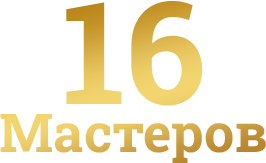
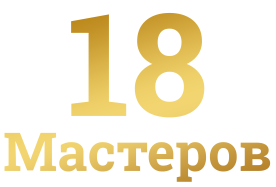
18 speakers changes

Changed region(s): [[0.0, 0.6748, 1.0, 1.0], [0.4812, 0.0, 0.782, 0.6748], [0.2406, 0.0, 0.4812, 0.6442]]

diff --git a/src/app/components/second-forum/second-forum.component.html b/src/app/components/second-forum/second-forum.component.html
@@ -65,10 +65,12 @@
                                 <img src="assets/Images/tel.png" alt="telegram">
                                 Присоединиться к чату форума</button> -->
               <div class="header-inner header-inner-button boreder grad">
-                <button class="registration-button" (click)="scrollTo('registration-form-container')">{{'second-forum.register' |
+                <button class="registration-button"
+                  (click)="scrollTo('registration-form-container')">{{'second-forum.register' |
                   translate}}</button>
               </div>
-              <p style="margin-top: 12px;" (click)="goToURl('https://t.me/FORUM_AHIMSA')">{{'second-forum.register-from-tg' | translate}}</p>
+              <p style="margin-top: 12px;" (click)="goToURl('https://t.me/FORUM_AHIMSA')">
+                {{'second-forum.register-from-tg' | translate}}</p>
               <!-- </div>
               <button class="registration-button registration-button-gold">
               </button> -->
@@ -263,64 +265,60 @@
             </app-master-card>
 
             <app-master-card [imgUrl]="'second-forum/Sadhvi.jpg'" [title]="'masters.sadhvi-title' | translate"
-            [name]="'masters.sadhvi' | translate" [tradition]="''" [time]="''"></app-master-card>
+              [name]="'masters.sadhvi' | translate" [tradition]="''" [time]="''"></app-master-card>
 
             <app-master-card [imgUrl]="'second-forum/madukhar.jpg'" [title]="'masters.madukar-title' | translate"
               [name]="'masters.madukar' | translate" [tradition]="''" [time]="''"></app-master-card>
 
-            <app-master-card [imgUrl]="'second-forum/hakimov.jpg'"
-              [title]="'masters.shaitania-title' | translate"
+            <app-master-card [imgUrl]="'second-forum/hakimov.jpg'" [title]="'masters.shaitania-title' | translate"
               [name]="'masters.shaitania' | translate" [tradition]="''" [time]="''">
             </app-master-card>
 
             <app-master-card [imgUrl]="'second-forum/shalesh.jpg'" [title]="'masters.shaleshand-title' | translate"
-            [name]="'masters.shaleshand' | translate" [tradition]="''" [time]="''"></app-master-card>
+              [name]="'masters.shaleshand' | translate" [tradition]="''" [time]="''"></app-master-card>
 
             <app-master-card [imgUrl]="'second-forum/lapshinovjpg.jpg'" [title]="'masters.lapshinov-title' | translate"
               [name]="'masters.lapshinov' | translate" [tradition]="''" [time]="''"></app-master-card>
 
+            <app-master-card [imgUrl]="'second-forum/alakh.png'" [title]="'masters.niragan-title' | translate"
+              [name]="'masters.niragan' | translate" [tradition]="''" [time]="''"></app-master-card>
 
-
-            <app-master-card [imgUrl]="'second-forum/alakh.png'" [title]="'masters.niragan-title' | translate" [name]="'masters.niragan' | translate" [tradition]="''"
-              [time]="''"></app-master-card>
-
-              <app-master-card [imgUrl]="'second-forum/photo_2.jpg'"
-              [title]="'masters.shaitaniayoga-title' | translate"
-              [name]="'masters.shaitaniayoga' | translate" [tradition]="''" [time]="''">
-            </app-master-card>
-
-            <app-master-card [imgUrl]="'second-forum/kurovskij.jpg'"
-              [title]="'masters.kurskii-title' | translate"
+            <app-master-card [imgUrl]="'second-forum/kurovskij.jpg'" [title]="'masters.kurskii-title' | translate"
               [name]="'masters.kurskii' | translate" [tradition]="''" [time]="''">
             </app-master-card>
 
-            <app-master-card [imgUrl]="'second-forum/balachandra.jpg'"
-              [title]="'masters.doctor-title' | translate"
+            <app-master-card [imgUrl]="'second-forum/photo_2.jpg'" [title]="'masters.shaitaniayoga-title' | translate"
+              [name]="'masters.shaitaniayoga' | translate" [tradition]="''" [time]="''">
+            </app-master-card>
+
+            <app-master-card [imgUrl]="'second-forum/balachandra.jpg'" [title]="'masters.doctor-title' | translate"
               [name]="'masters.doctor' | translate" [tradition]="''" [time]="''">
             </app-master-card>
-            <app-master-card [imgUrl]="'second-forum/nagpalama.jpg'"
-              [title]="'masters.nagpalama-title' | translate"
+
+            <app-master-card [imgUrl]="'second-forum/tulku.JPG'" [title]="'masters.tulku-title' | translate"
+              [name]="'masters.tulku' | translate" [tradition]="''" [time]="''">
+            </app-master-card>
+
+            <app-master-card [imgUrl]="'second-forum/nagpalama.jpg'" [title]="'masters.nagpalama-title' | translate"
               [name]="'masters.nagpalama' | translate" [tradition]="''" [time]="''"></app-master-card>
 
-            <app-master-card [imgUrl]="'second-forum/samdanlama.jpg'"
-              [title]="'masters.samdanlama-title' | translate"
+            <app-master-card [imgUrl]="'second-forum/samdanlama.jpg'" [title]="'masters.samdanlama-title' | translate"
               [name]="'masters.samdanlama' | translate" [tradition]="''" [time]="''"></app-master-card>
 
-            <app-master-card [imgUrl]="'second-forum/sammasati.jpg'"
-              [title]="'masters.samart-title' | translate"
+            <app-master-card [imgUrl]="'second-forum/sammasati.jpg'" [title]="'masters.samart-title' | translate"
               [name]="'masters.samart' | translate" [time]="''"></app-master-card>
 
-            <app-master-card [imgUrl]="'second-forum/rusov.jpg'"
-              [title]="'masters.rusov-title' | translate"
+            <app-master-card [imgUrl]="'second-forum/rusov.jpg'" [title]="'masters.rusov-title' | translate"
               [name]="'masters.rusov' | translate" [time]="''"></app-master-card>
 
-              <app-master-card [imgUrl]="'second-forum/kapustin.jpg'"
-              [title]="'masters.kapustin-title' | translate"
+            <app-master-card [imgUrl]="'second-forum/kapustin.jpg'" [title]="'masters.kapustin-title' | translate"
               [name]="'masters.kapustin' | translate" [time]="''"></app-master-card>
 
-              <app-master-card [imgUrl]="'second-forum/starinin.jpg'"
-              [title]="'masters.starinin-title' | translate"
+            <app-master-card [imgUrl]="'second-forum/starinin.jpg'" [title]="'masters.starinin-title' | translate"
               [name]="'masters.starinin' | translate" [time]="''"></app-master-card>
+
+            <app-master-card [imgUrl]="'second-forum/pullo.jpg'" [title]="'masters.pullo-title' | translate"
+              [name]="'masters.pullo' | translate" [time]="''"></app-master-card>
           </div>
         </div>
         <div class="container registration-form-container" id="registration-form-container">
@@ -336,34 +334,35 @@
               <p style="margin-top: 10px" class="l_titul">{{'second-forum.can-register-through' | translate}}</p>
             </div>
             <div class=" flex justify-center items-center" style="margin-top: 40px;">
-              <button id="telegramBtn" style="    position: relative;" class="registration-button"  (click)=" telegramClick()" >
-                 <span>{{'second-forum.register-in-telegram' | translate}}</span>
-                 <!-- <img style="    width: 30px;
+              <button id="telegramBtn" style="    position: relative;" class="registration-button"
+                (click)=" telegramClick()">
+                <span>{{'second-forum.register-in-telegram' | translate}}</span>
+                <!-- <img style="    width: 30px;
     height: 30px;
     border-radius: 5px;
     position: absolute;
     top: 29%;
     left: 88%;" src="assets/Images/tel.png" alt="telegram"> -->
-    </button>
+              </button>
             </div>
             <div>
               <p style="margin-top: 50px" class="l_titul">{{'main.phone1' | translate}}</p>
               <p class="l_titul fl" style="cursor: pointer;"><img src="assets/Images/tel.png" alt="telegram">
-                {{'main.or' | translate}} <img
-                  src="assets/Images/WhatsApp.png" alt="whatsupp">
-                </p>
+                {{'main.or' | translate}} <img src="assets/Images/WhatsApp.png" alt="whatsupp">
+              </p>
             </div>
             <div class="form-registration-form flex justify-between" [formGroup]="form" id="registration-form">
               <input type="text" class="input-form-gold" placeholder="{{'main.name' | translate}}"
                 formControlName="name" />
               <input type="email" class="input-form-gold" placeholder="email" formControlName="email" />
               <ngx-intl-tel-input [cssClass]="'custom'" [preferredCountries]="preferredCountries"
-                [enableAutoCountrySelect]="true" [enablePlaceholder]="true" [searchCountryFlag]="true" [searchCountryField]="[
+                [enableAutoCountrySelect]="true" [enablePlaceholder]="true" [searchCountryFlag]="true"
+                [searchCountryField]="[
                 SearchCountryField.Iso2,
                 SearchCountryField.Name
                 ]" [selectFirstCountry]="false" [selectedCountryISO]="selectedCountry" [maxLength]="15"
-                [phoneValidation]="true" [separateDialCode]="true" [numberFormat]="PhoneNumberFormat.National" name="phone"
-                formControlName="phone">
+                [phoneValidation]="true" [separateDialCode]="true" [numberFormat]="PhoneNumberFormat.National"
+                name="phone" formControlName="phone">
               </ngx-intl-tel-input>
               <!-- <input type="text" class="input-form-gold" placeholder="{{'main.phone' | translate}}"
                 formControlName="phone" /> -->
@@ -519,40 +518,40 @@
 
 
 
-<script>
+  <script>
     const links = document.querySelectorAll('a');
 
-    if( links ) {
-        for( const link of links ) {
-            if (
-                link.href.includes("tg://resolve") ||
-                link.href.includes("https://t.me/") ||
-                link.href.includes("https://direct.smartsender.com/redirect") ||
-                link.href.includes("viber://pa") ||
-                link.href.includes("https://vk.com/app") ||
-                link.href.includes("vk://vk.com/app") ||
-                link.href.includes("https://m.me") ||
-                link.href.includes("https://wa.me") ||
-                link.href.includes("whatsapp://send")
-            ) {
-                link.classList.add('ss-btn');
-            }
+    if (links) {
+      for (const link of links) {
+        if (
+          link.href.includes("tg://resolve") ||
+          link.href.includes("https://t.me/") ||
+          link.href.includes("https://direct.smartsender.com/redirect") ||
+          link.href.includes("viber://pa") ||
+          link.href.includes("https://vk.com/app") ||
+          link.href.includes("vk://vk.com/app") ||
+          link.href.includes("https://m.me") ||
+          link.href.includes("https://wa.me") ||
+          link.href.includes("whatsapp://send")
+        ) {
+          link.classList.add('ss-btn');
         }
+      }
     }
-</script>
+  </script>
 
-<script>
+  <script>
     /**
      * Returns string with URL param value.
      *
      * @param {String} param [The Param in URL].
      * @return {String} paramValue [Value that we search in param].
      */
-    const getUrlParam = function( param ) {
-      if ( ! param ) return;
+    const getUrlParam = function (param) {
+      if (!param) return;
 
       const queryString = window.location.search;
-      const urlParams = new URLSearchParams( queryString );
+      const urlParams = new URLSearchParams(queryString);
       const paramValue = urlParams.get(param);
 
       return paramValue;
@@ -560,16 +559,15 @@
 
 
     const ssContext = {
-        variables: {
-            utm_source: getUrlParam('utm_source'), // получит параметр "utm_source" из ссылки
-            utm_medium: getUrlParam('utm_medium'), // получит параметр "utm_medium" из ссылки
-            utm_campaign: getUrlParam('utm_campaign'), // получит параметр "utm_campaign" из ссылки
-            utm_content: getUrlParam('utm_content'), // получит параметр "utm_content" из ссылки
-            W_chanel: getUrlParam('W_chanel'), // получит параметр "W_chanel" из ссылки
-        }
+      variables: {
+        utm_source: getUrlParam('utm_source'), // получит параметр "utm_source" из ссылки
+        utm_medium: getUrlParam('utm_medium'), // получит параметр "utm_medium" из ссылки
+        utm_campaign: getUrlParam('utm_campaign'), // получит параметр "utm_campaign" из ссылки
+        utm_content: getUrlParam('utm_content'), // получит параметр "utm_content" из ссылки
+        W_chanel: getUrlParam('W_chanel'), // получит параметр "W_chanel" из ссылки
+      }
     };
     console.log(ssContext);
     ssDeepLink('ss-btn', 'yogiespeas', false, ssContext);
 
-</script>
-
+  </script>
